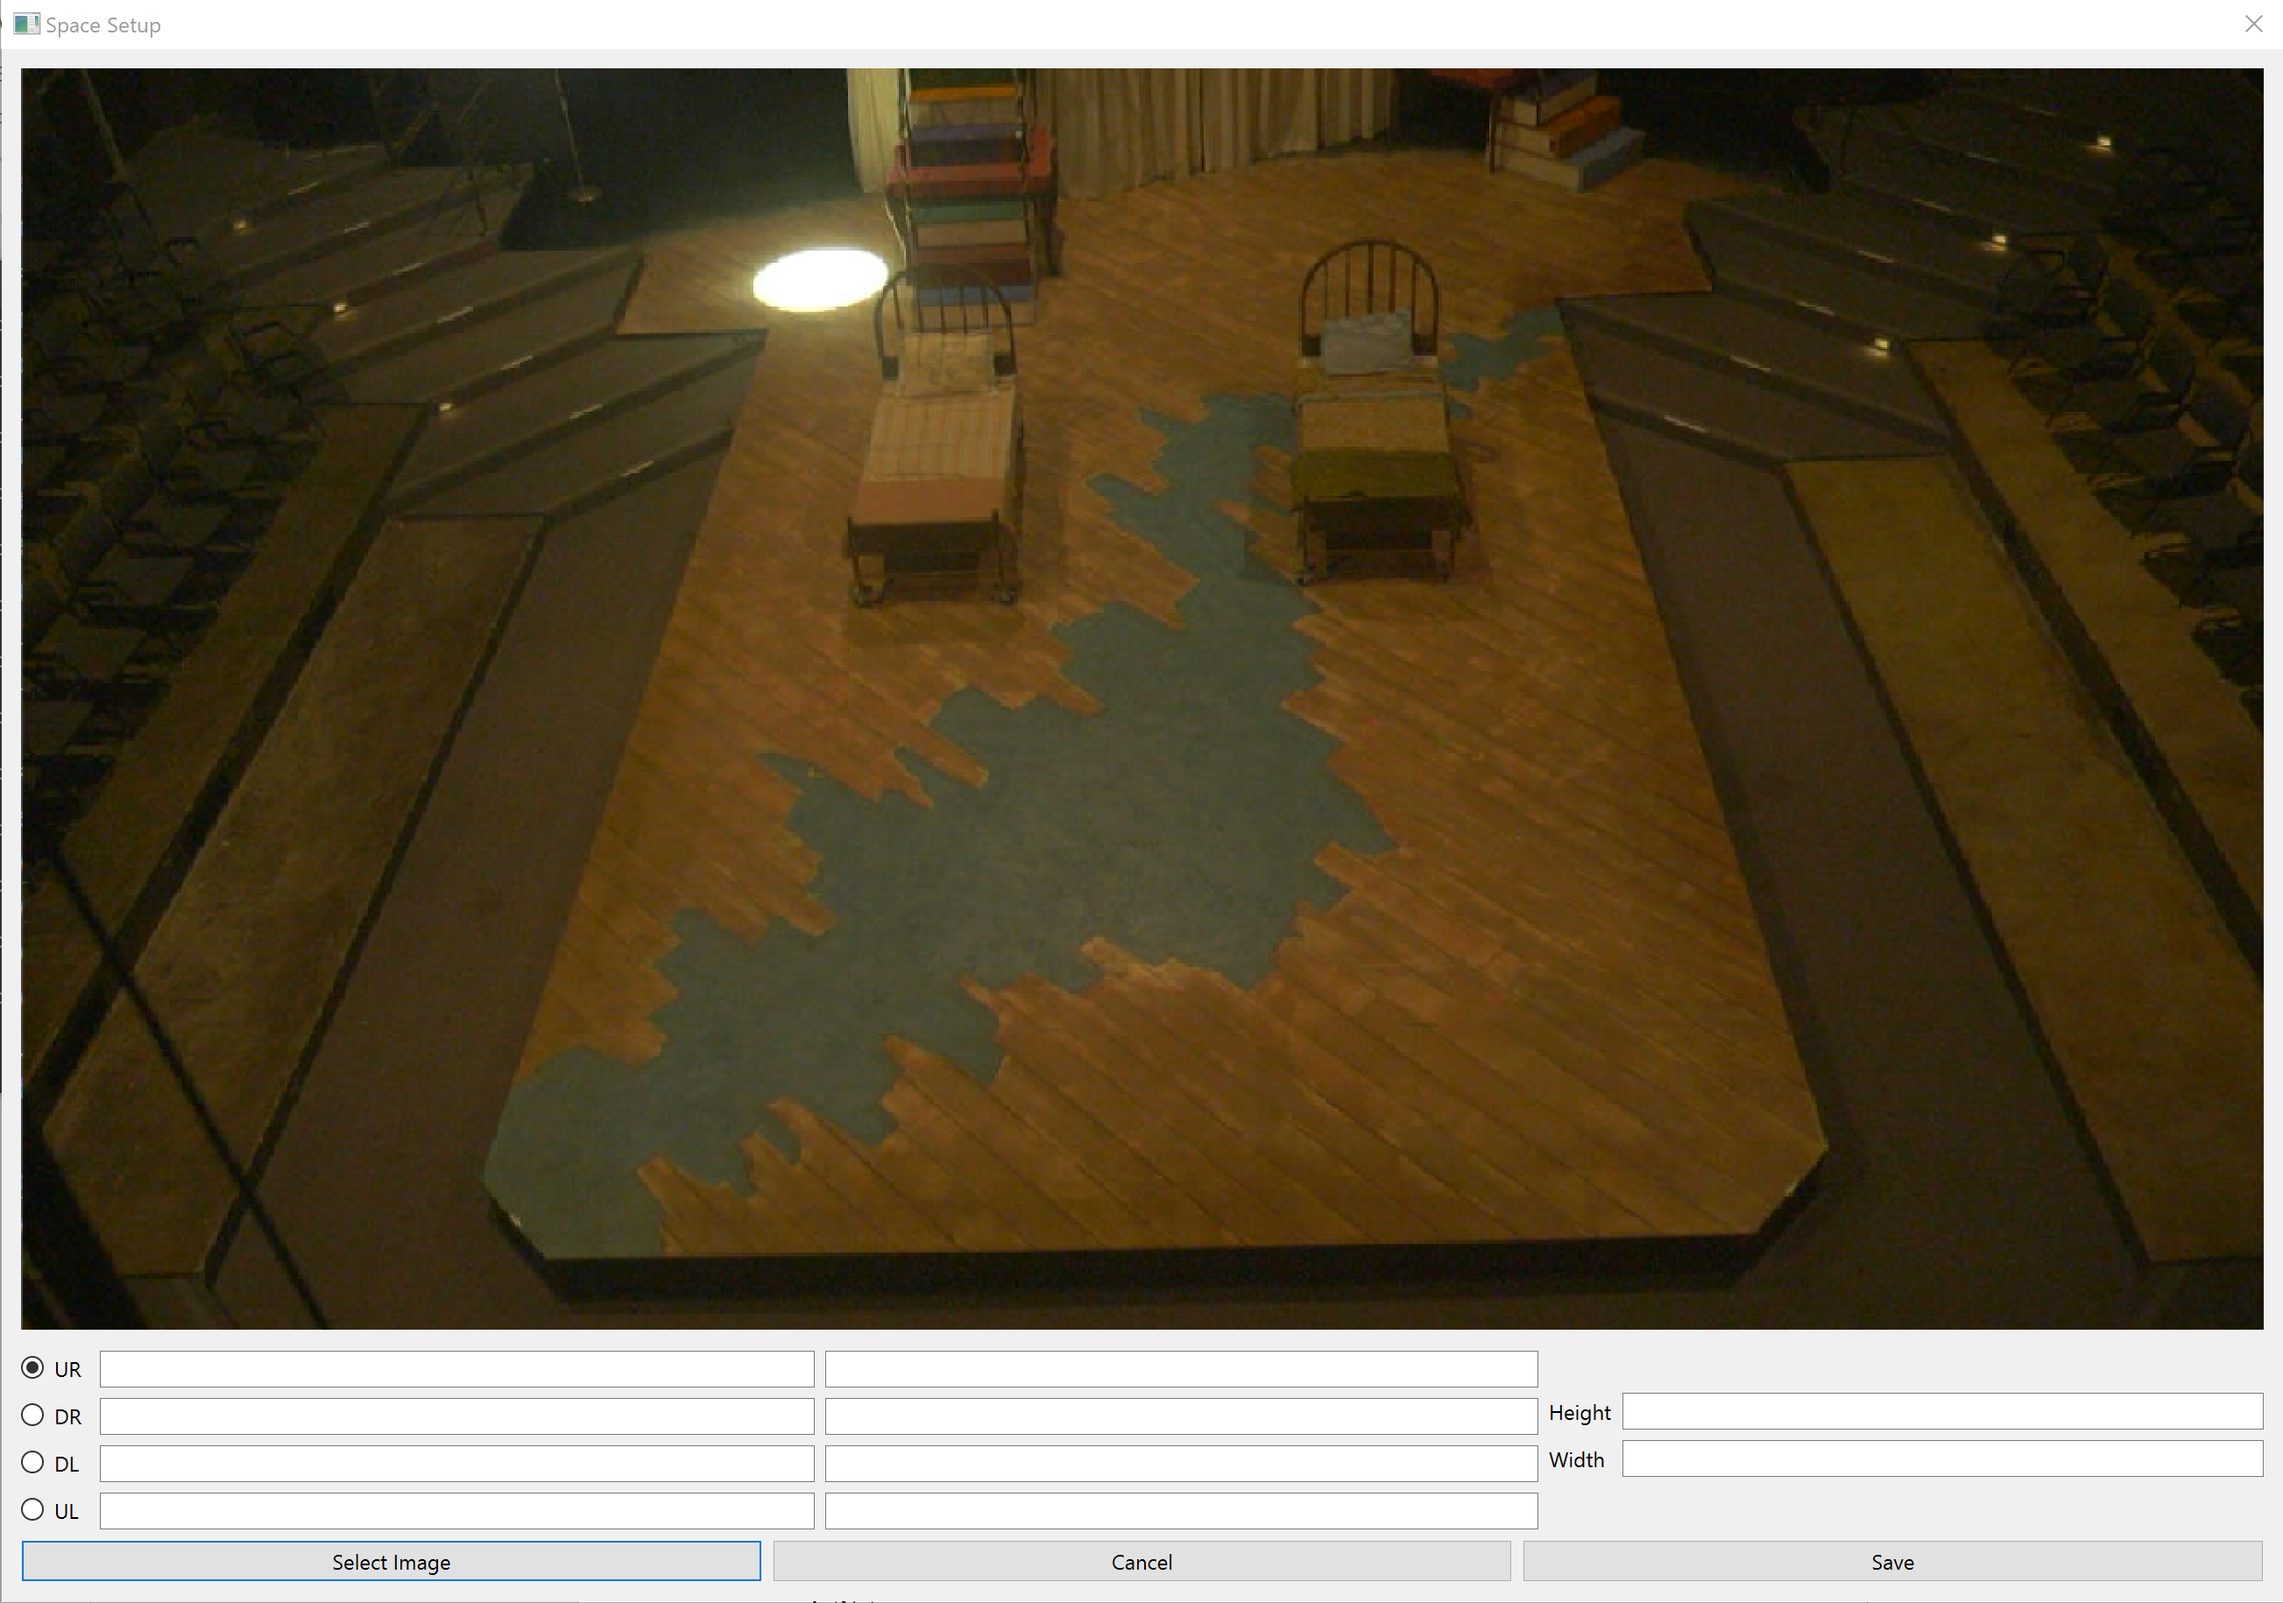
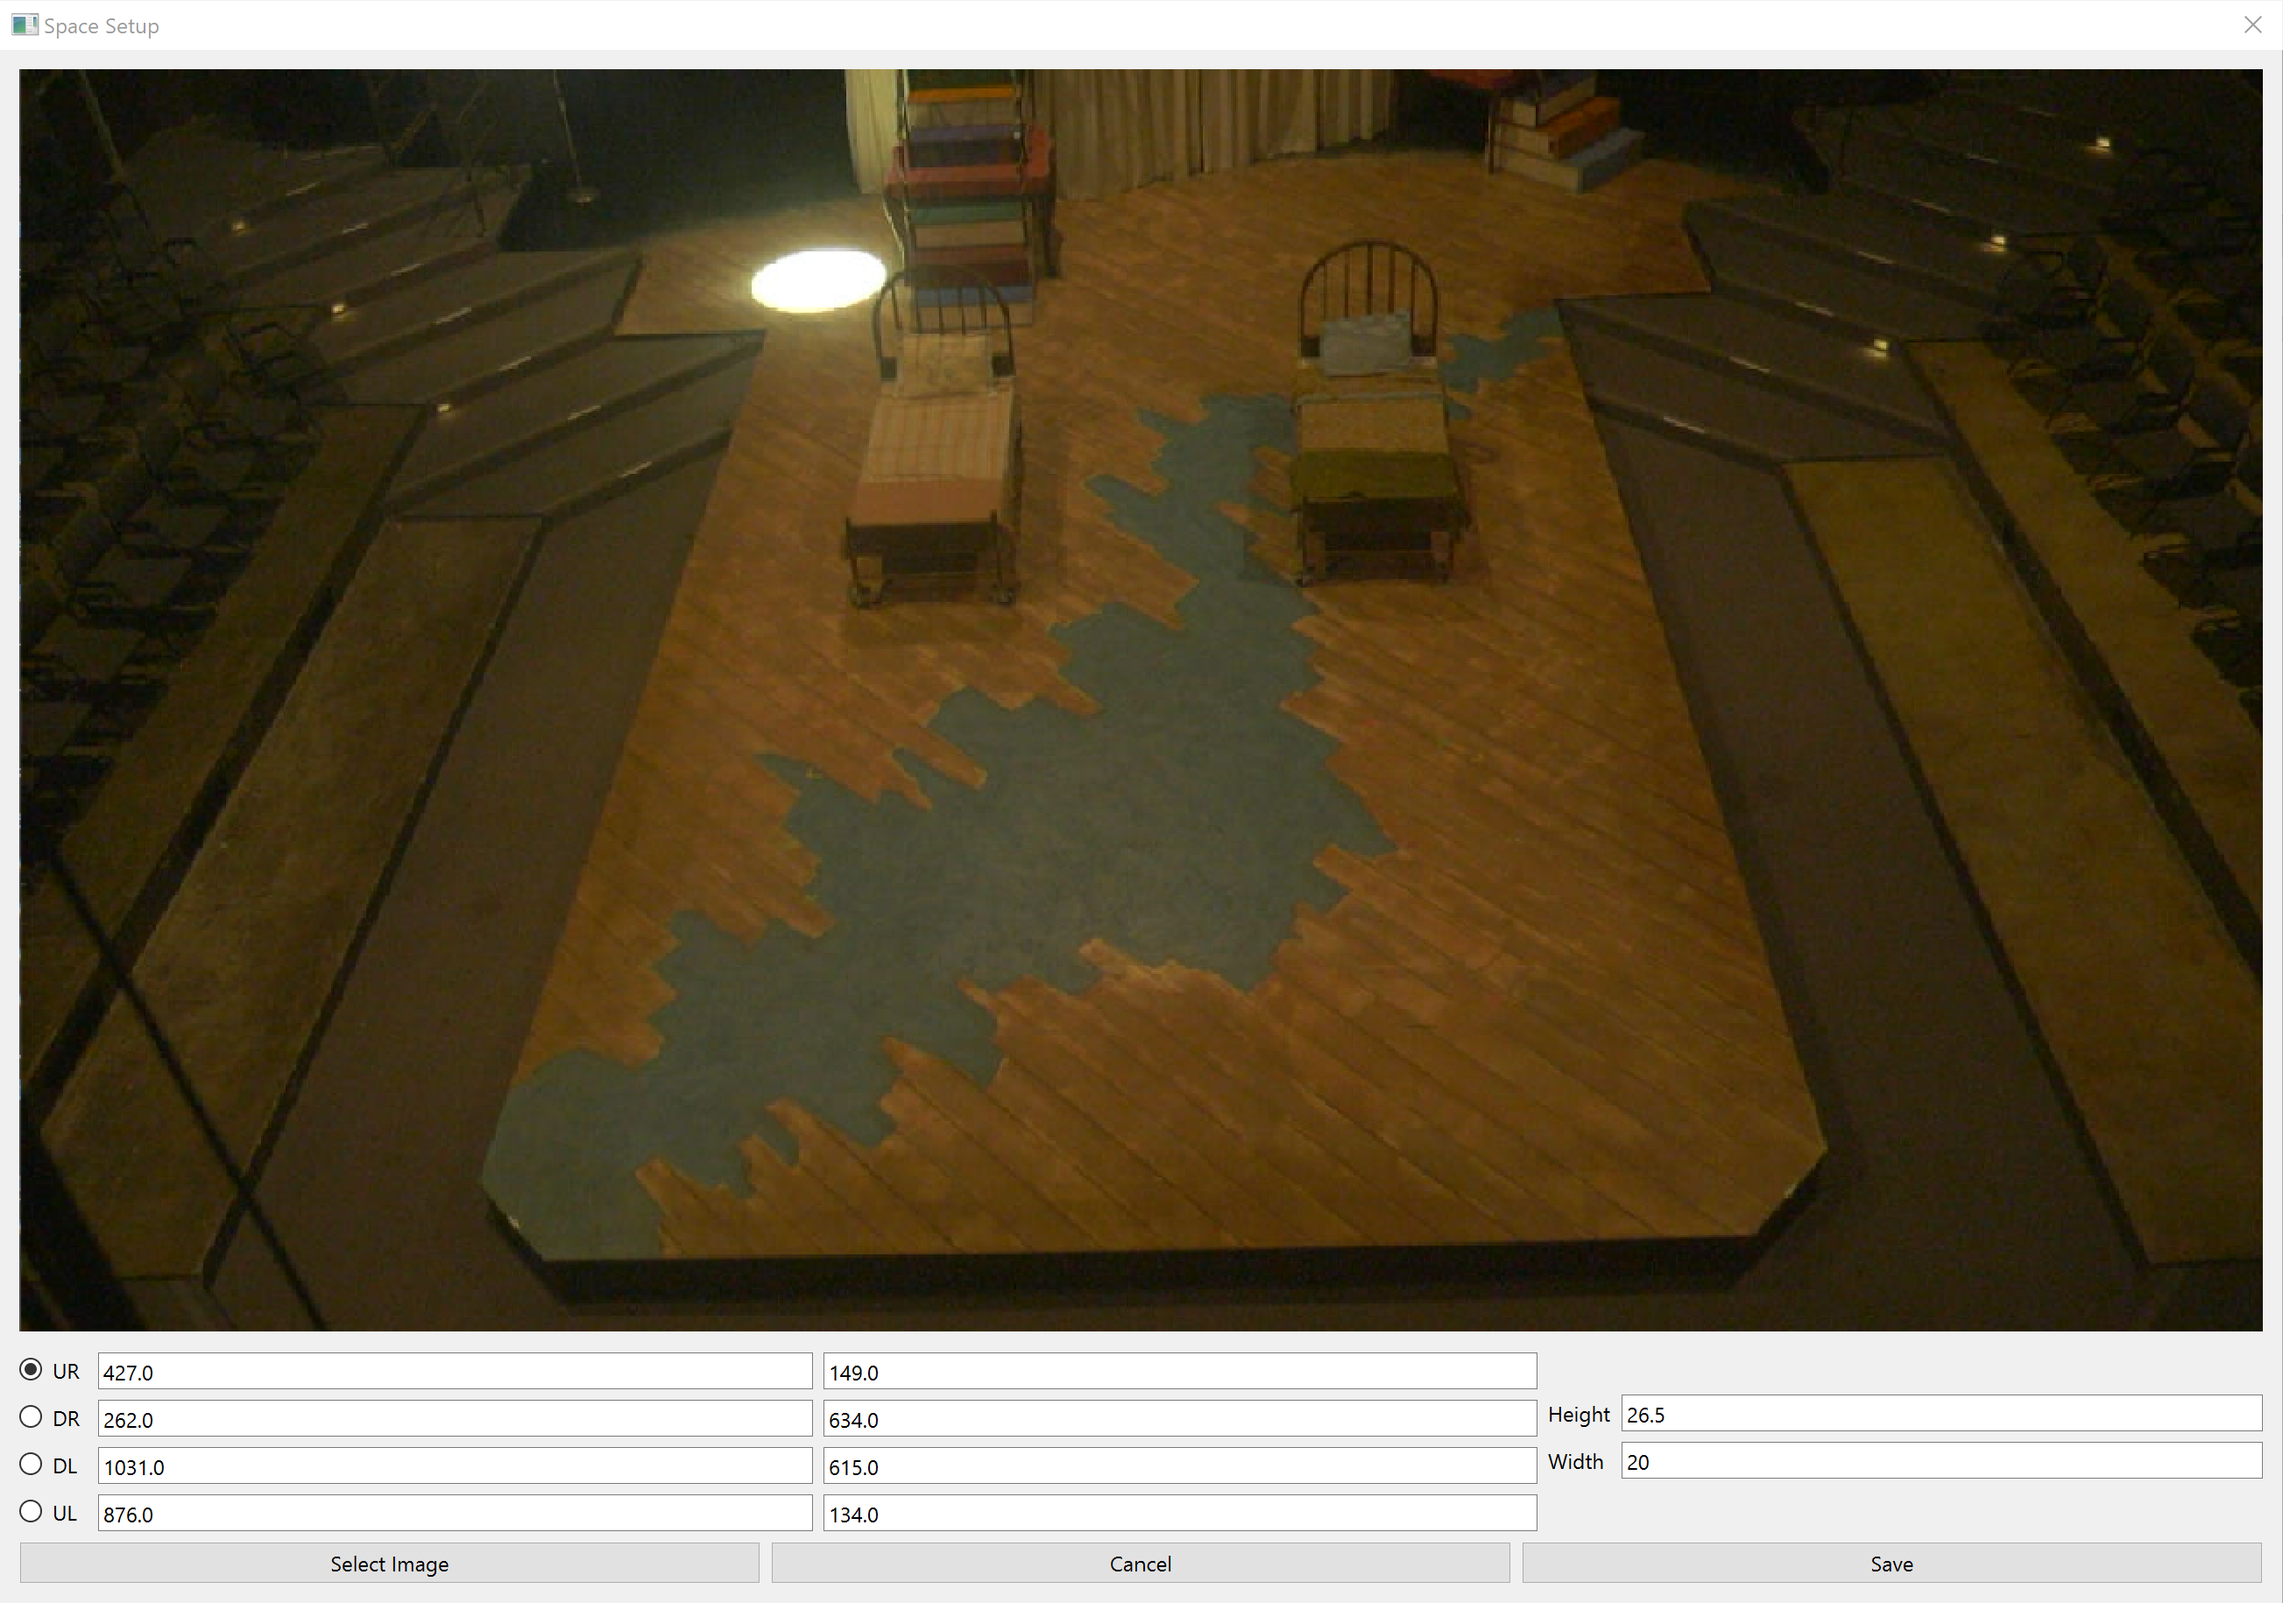
Updated README file

diff --git a/UI/FixtureWindow.py b/UI/FixtureWindow.py
@@ -50,12 +50,19 @@ class FixtureWindow(QWidget):
 
         # convert fixture list to 2D list to setup fixture table
         fixtureList = []
-        for fixture in fixtures:
+        for fixture in self.fixtures:
             fixtureList.append(fixture.asList())
         fixtureModel = qtFixtureTable(fixtureList)
         self.fixtureTable.setModel(fixtureModel)
 
     def editFixture(self):
+        self.fixtureEditWindow = FixtureEditorWindow()
+        indexes = self.fixtureTable.selectionModel().selectedRows()
+        fixture = self.fixtures[indexes[0].row()]
+        self.fixtureEditWindow.addFixtureInfo(fixture)
+        self.fixtureEditWindow.show()
+        # take fixture objecte add it to fixture list
+        # self.fixtureEditWindow.newFixture.connect(self.addFixToList)
         pass #implemented later
 
     def addFixture(self):
@@ -67,9 +74,24 @@ class FixtureWindow(QWidget):
 
     def addFixToList(self, fixture):
         self.fixtures.append(fixture)
+        fixtureList = []
+        for fixture in self.fixtures:
+            fixtureList.append(fixture.asList())
+        fixtureModel = qtFixtureTable(fixtureList)
+        self.fixtureTable.setModel(fixtureModel)
 
     def removeFixture(self):
-        pass
+        indexes = self.fixtureTable.selectionModel().selectedRows()
+        for index in sorted(indexes, reverse=True):
+            self.fixtures.pop(index.row())
+        fixtureList = []
+        for fixture in self.fixtures:
+            fixtureList.append(fixture.asList())
+        if (len(fixtureList)):
+            fixtureModel = qtFixtureTable(fixtureList)
+            self.fixtureTable.setModel(fixtureModel)
+
+
 
     def updatesACN(self):
         pass
@@ -128,6 +150,7 @@ class FixtureEditorWindow(QDialog):
     def __init__(self, fixture=None):
         super(FixtureEditorWindow, self).__init__()
         loadUi('UI/QT Files/fixture Setup.ui', self)
+        # loadUi('QT Files/fixture Setup.ui', self)
         # all boxes should be empty
         self.saveButton.clicked.connect(self.saveFixture)
         self.cancelButton.clicked.connect(self.close)
@@ -135,18 +158,20 @@ class FixtureEditorWindow(QDialog):
 
     def addFixtureInfo(self, fixture):
         self.FixtureName.setText(fixture.fixtureName)
-        self.zPos.setText(fixture.position[2])
+        self.zPos.setText(str(fixture.position[2]))
         self.zRot.setText('0')
-        self.xPos.setText(fixture.position[0])
+        self.xPos.setText(str(fixture.position[0]))
         self.xRot.setText('0')
-        self.yPos.setText(fixture.position[1])
+        self.yPos.setText(str(fixture.position[1]))
         self.yRot.setText('0')
-        self.totalNumAddresses.setText(fixture.totalNumAddr())
-        self.startAddress.setText(fixture.fixtureAddr)
-        self.Universe.setText(fixture.universe)
-        self.panOffset.setText(fixture.panOffset)
-        self.tiltOffset.setText(fixture.tiltOffset)
-        self.intensityOffset.setText(fixture.intensityOffset)
+        self.totalNumAddresses.setText(str(fixture.totalNumAddr()))
+        self.startAddr.setText(str(fixture.fixtureAddr))
+        self.Universe.setText(str(fixture.universe))
+        self.panOffset.setText(str(fixture.panOffset))
+        self.tiltOffset.setText(str(fixture.tiltOffset))
+        self.intensityOffset.setText(str(fixture.intensityOffset))
+        self.tiltDegrees.setText(str(fixture._totalTiltDeg))
+        self.panDegrees.setText(str(fixture._totalPanDeg))
 
         # self.manufacturer
         # self.FixtureName
@@ -165,19 +190,23 @@ class FixtureEditorWindow(QDialog):
 
     def saveFixture(self):
         fixName = self.FixtureName.text()
-        zpos = self.zPos.text()
-        zRot = self.zRot.text()
-        xPos = self.xPos.text()
-        xRot = self.xRot.text()
-        yPos = self.yPos.text()
-        yRot = self.yRot.text()
-        numAddr = self.totalNumAddresses.text()
-        startAddr = self.startAddr.text()
-        universe = self.Universe.text()
-        panOff = self.panOffset.text()
-        tiltOff = self.tiltOffset.text()
-        intensOff = self.intensityOffset.text()
-        # print(zRot)
+        zpos = int(self.zPos.text())
+        zRot = int(self.zRot.text())
+        xPos = int(self.xPos.text())
+        xRot = int(self.xRot.text())
+        yPos = int(self.yPos.text())
+        yRot = int(self.yRot.text())
+        numAddr =int(self.totalNumAddresses.text())
+        startAddr = int(self.startAddr.text())
+        universe = int(self.Universe.text())
+        panOff = int(self.panOffset.text())
+        tiltOff = int(self.tiltOffset.text())
+        intensOff = int(self.intensityOffset.text())
+        tiltDeg = int(self.tiltDegrees.text())
+        panDeg = int(self.panDegrees.text())
+        self.newFixture.emit(Fixture((xPos, yPos, zpos), intensOff, panOff, tiltOff, numAddr, universe, startAddr,
+                                     tiltDeg, panDeg, fixName))
+        self.close()
 
 
 data = Fixture((0, 0, 28), 37, 0, 2, 43, 1, 44, 540, 270, "Solaspot")

diff --git a/Space/space.py b/Space/space.py
@@ -108,8 +108,8 @@ class Space:
 
 if "__main__" == __name__:
     image = cv2.imread(
-        "C:\\Users\\mattm\\OneDrive - CSULB\\School\\Final Project\\OpenCV test\\Camera calibration test\\studio3.png")
-    pts = np.array([(416, 55), (193, 626), (1151, 621), (966, 35)])
+        "C:\\Users\\mattm\\OneDrive - CSULB\\School\\Final Project\\OpenCV test\\Camera calibration test\\studio6.png")
+    pts = np.array([(426, 148), (262, 635), (1031, 615), (873, 131)])
 
     space = Space()
 

diff --git a/Fixtures/Fixtures.py b/Fixtures/Fixtures.py
@@ -4,7 +4,7 @@ import time
 
 class Fixture:
     def __init__(self, position: list, intensityAddr: int, panAddr: int, tiltAddr: int, totalNumAddresses: int,
-                 universe: int, fixtureAddr: int, totalPanDeg: float, totalTiltDeg: float, fixtureName="N/A"):
+                 universe: int, fixtureAddr: int, totalPanDeg: int, totalTiltDeg: int, fixtureName="N/A"):
         self._pos = position
         self._intensity_offset = intensityAddr
         self._pan_offset = panAddr

diff --git a/README.md b/README.md
@@ -2,7 +2,7 @@
 
 
 ## Introduction
-This repository conntains an GUI driven open CV based tracker to that allows the tracking of a subject on a stage with only a camera, capture card and computer. The Trackingn algorithm is based on [Mike-Bronstrom's implementation of the YOLOv5 and Deep Sort with OSNet repository](https://github.com/mikel-brostrom/Yolov5_DeepSort_OSNet). The application is still in the early stages of development, so not all functionality is implemented.
+This repository contains an GUI driven open CV based tracker to that allows the tracking of a subject on a stage with only a camera, capture card and computer. The Trackingn algorithm is based on [Mike-Bronstrom's implementation of the YOLOv5 and Deep Sort with OSNet repository](https://github.com/mikel-brostrom/Yolov5_DeepSort_OSNet). The application is still in the early stages of development, so not all functionality is implemented.
 
 ## Before you run the tracker
 
@@ -14,5 +14,68 @@ This repository conntains an GUI driven open CV based tracker to that allows the
 
 ## Running the Applictaion
 
-'python main.py' if python 3 is the only version installed on the device 
-if not: 'python3 main.py'
+'python main.py'
+
+## Instructions
+
+###Startup Window:
+<div align="center">
+<img src="Screen Captures/startup.png" width="300"/>
+</div>
+
+This window gives you the choice to open an already saved file, open a new project, or Calibrate a camera
+
+###Tracking Area Setup:
+<div align="center">
+<img src="Screen Captures/Space Setup.png" width="400"/>
+</div>
+In This window you set up the area that the tracking area will be the most accurate in. To do this
+you must first take a reference picture with the camera in the exact position the camera will  be
+in when using it to track actors. find 4 points that mark the boundary of the tracking area. By selecting the radio button
+associated with the placement onstage of and then clicking the point in the reference image that
+corresponds with the real world point the pixel placement information will be automatically added
+to the correct text field. Once that is complete the height and width of the tracking area in Feet must
+be entered into the height and width field.
+
+
+###Fixture List:
+<div align="center">
+<img src="Screen Captures/fixture list.png" width="300"/>
+</div>
+The fixture list will list all the fixtures that are currently in the project. For testing purposes a SoloSpot
+2000 fixture is listed in the fixture list when opening a new show. Adding a fixture, editing, and removing a
+fixture is still be worked on.
+
+###Main Window:
+<div align="center">
+<img src="Screen Captures/Main Window.png" width="300"/>
+</div>
+
+This is the main window of the application. The image in the middle of the window is the camera view
+This shows all the subjects that are currently being tracked.
+the upper right button will allow  you to recalibrate the tracking area via the tracking area window.
+The button in the bottom left will allow you to assign what lights will be used to track. The bottom
+left drop down menu. allows the user to select the subject they wish to track. The drop down menu in
+upper left will allow the user to select the camera they wish to use. The menu bar at the top allows 
+you to access the sACN prtocal window, Camera calibration Window, Fixture list, and file system information.
+*Note: not all features are currently working*
+
+###Camera Calibration
+<div align="center">
+<img src="Screen Captures/camera Calibration.png" width="300"/>
+</div>
+
+<lb>Calibration Instructions</lb>
+
+<ol>
+<li> Print out Provided Calibration Imagee</li>
+<li> Put the camera on a tripod or similar</li>
+<li> Place camera facing a blank wall with enough distance so the paper is approximately 1/8 the size of the image</li>
+<li> Tape the paper to the wall, so it is located in the top right corner of the image.</li>
+<li> Once a complete circle has been completed take 3 pictures with the chess board pattern in th
+middle of the frame all at slightly different positions.</li>
+<li> load images into the calibration folder.</li>
+<li> Run calibration test on the folder</li>
+</ol>
+
+This will calibrate a camera to remove any distortions  found in the image resulting from the lens of the camera
